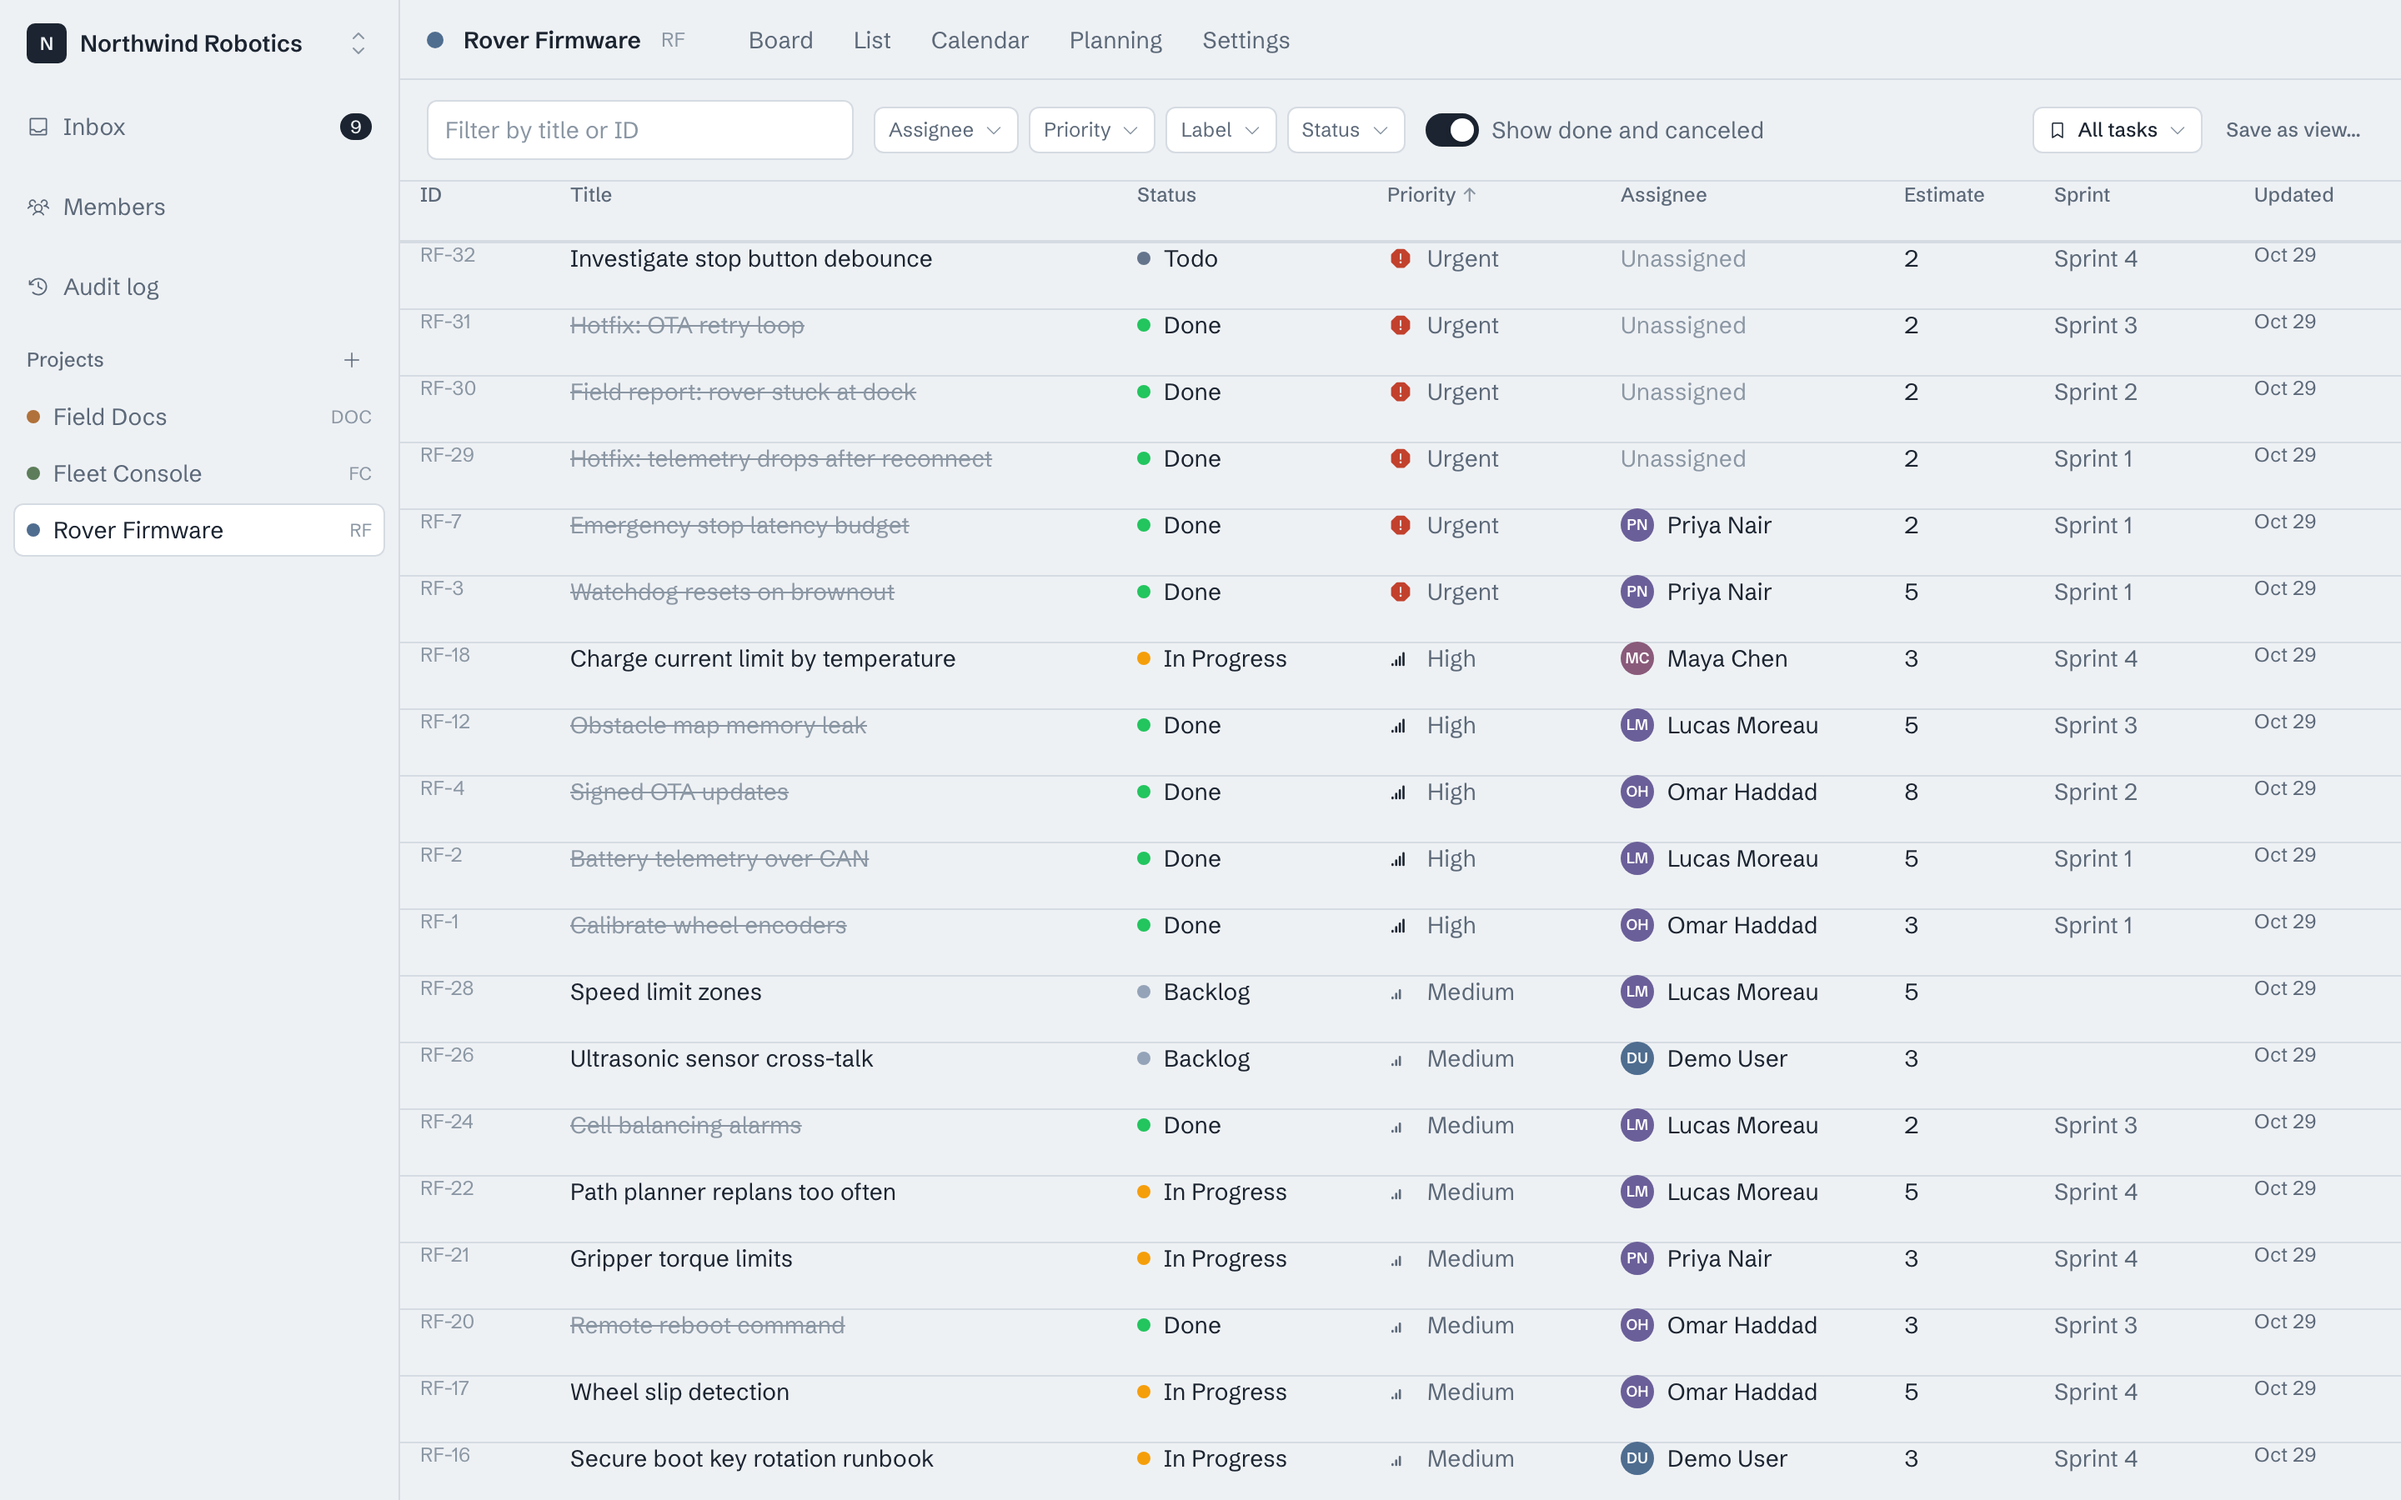
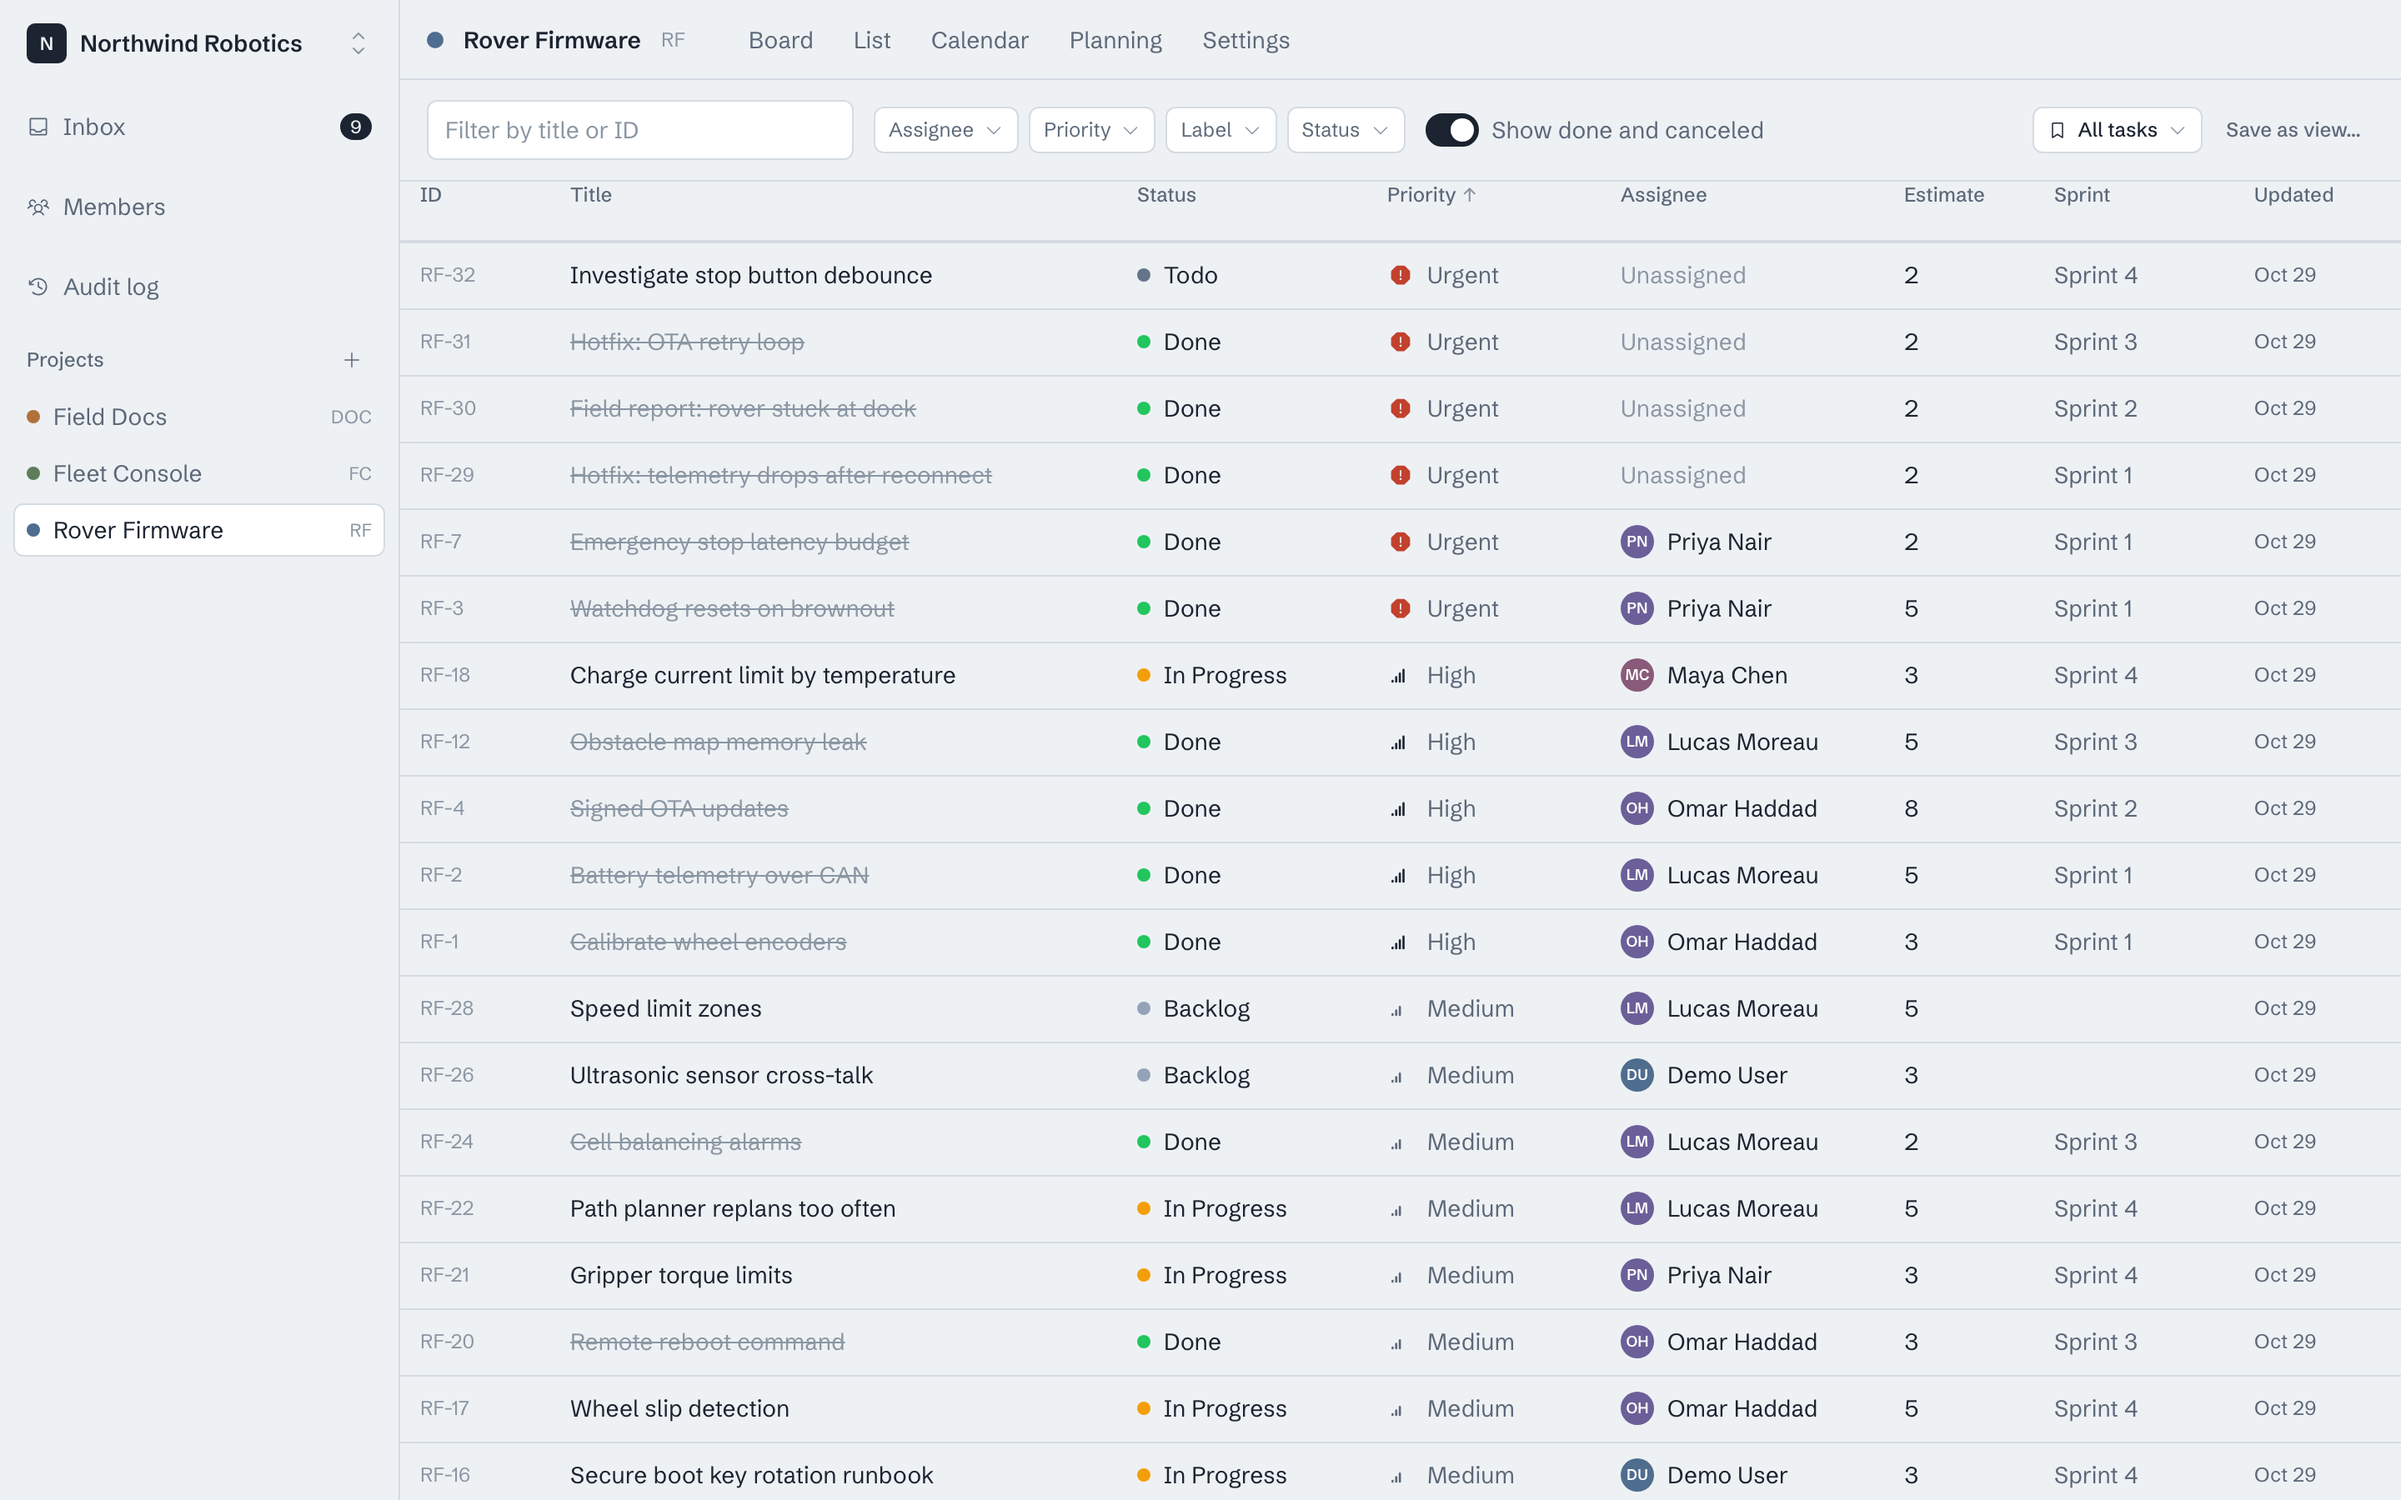
fix(web): align list cells vertically (#110)
* fix(web): centre every list cell vertically in its row

* chore(site): refresh screenshots

diff --git a/apps/web/src/features/list/task-table.tsx b/apps/web/src/features/list/task-table.tsx
@@ -108,7 +108,7 @@ export function TaskTable({
   const header =
     'sticky top-0 z-10 h-9 cursor-default border-line border-b bg-canvas px-3 text-left font-medium text-ink-muted text-xs outline-none data-[focus-visible]:outline-2 data-[focus-visible]:outline-marigold data-[focus-visible]:-outline-offset-2';
   const cell =
-    'truncate px-3 text-sm outline-none data-[focus-visible]:outline-2 data-[focus-visible]:outline-marigold data-[focus-visible]:-outline-offset-2';
+    'truncate px-3 text-sm leading-10 outline-none data-[focus-visible]:outline-2 data-[focus-visible]:outline-marigold data-[focus-visible]:-outline-offset-2';
   const sortable = (id: SortColumn, label: string, width?: number) => (
     <Column id={id} allowsSorting isRowHeader={id === 'title'} width={width} className={header}>
       {({ sortDirection }) => (
